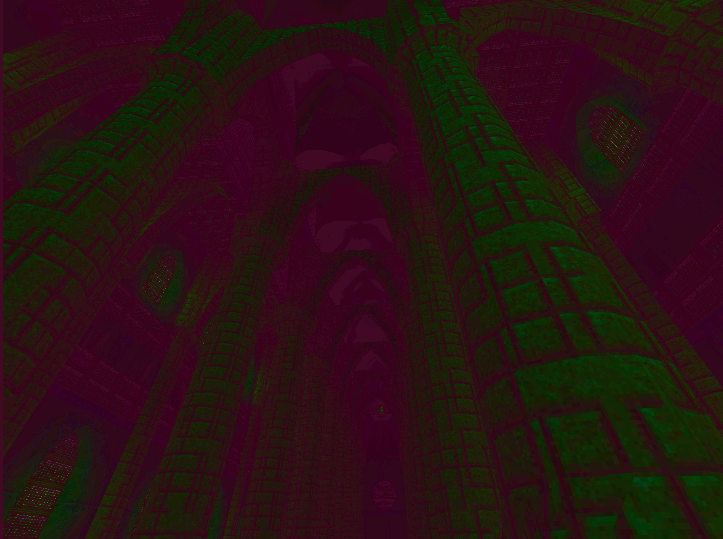
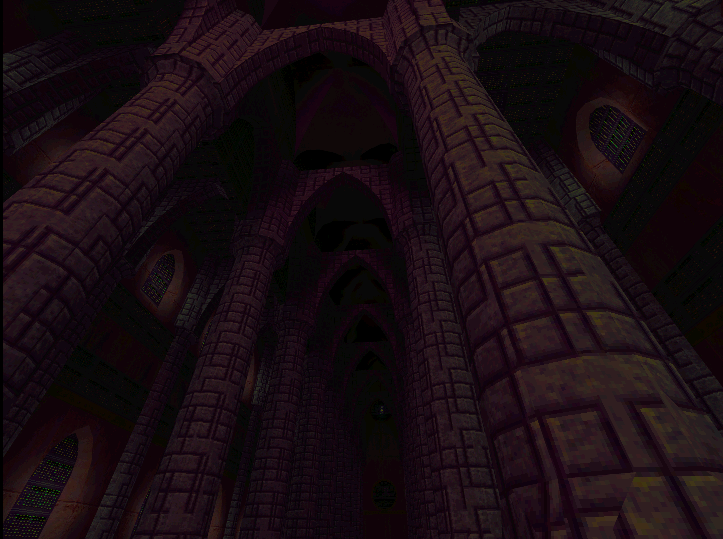
reduced bg complexity

diff --git a/style.css b/style.css
@@ -32,8 +32,8 @@
 ::-webkit-scrollbar-thumb:hover {background: var(--pri)}
 ::selection {color: var(--pri); background: var(--accent)}
 body {
-	background: url("/ass/bg/arches.webp") top / cover fixed, url("/ass/bg/waw.webp") repeat center / 200% #420924;
-	background-blend-mode: difference, darken;
+	background: url("/ass/bg/arches.webp") top / cover fixed, url("/ass/bg/waw.webp") repeat center / 200%;
+	background-blend-mode: darken;
 	color: var(--pri);
 	font-family: Comfortaa, Verdana;
 	margin: 0;
